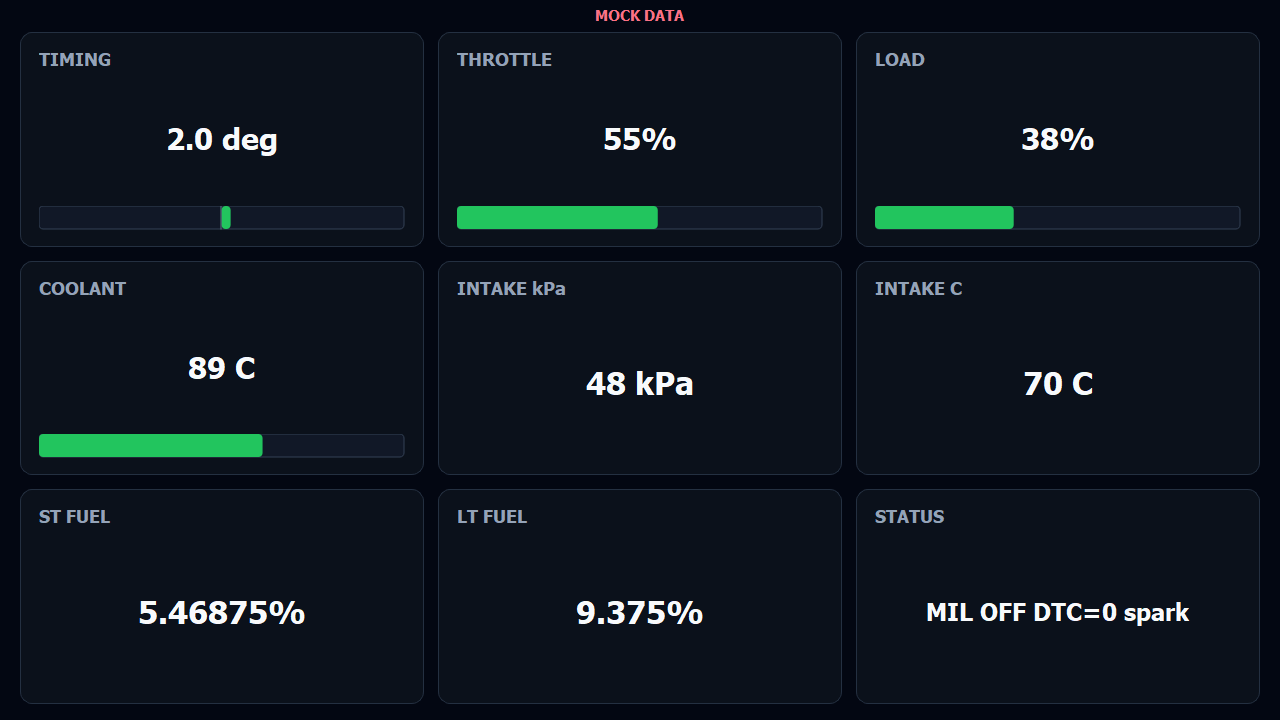
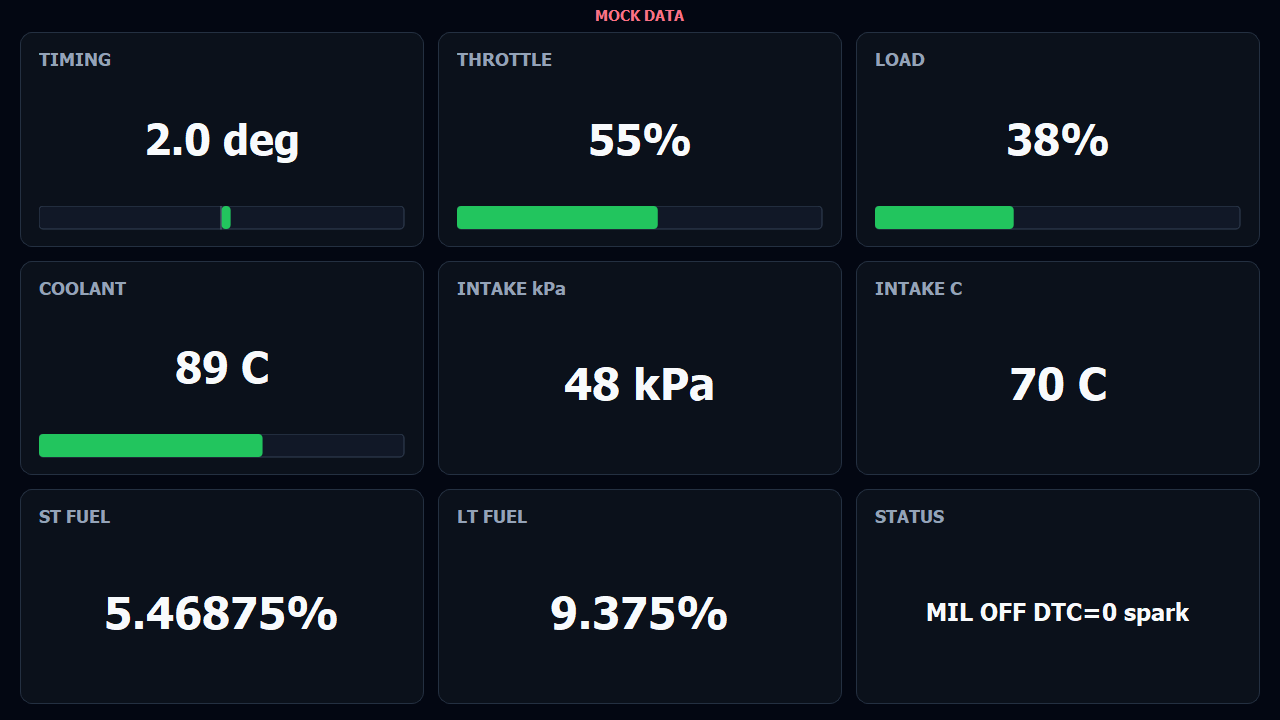
Enlarge dashboard metric values

diff --git a/scripts/obd_interface.py b/scripts/obd_interface.py
@@ -371,7 +371,7 @@ class GaugeMetric(QFrame):
         self.value_label = QLabel("-")
         self.value_label.setAlignment(Qt.AlignmentFlag.AlignCenter)
         self.value_label.setStyleSheet(
-            "font-size: %dpx; color: #f8fafc; font-weight: bold;" % scaled(30, scale)
+            "font-size: %dpx; color: #f8fafc; font-weight: bold;" % scaled(42, scale)
         )
         layout.addWidget(self.value_label, 1)
         self.bar = GaugeBar(name, scale)
@@ -420,7 +420,7 @@ class InfoMetric(QFrame):
         self.value_label = QLabel("-")
         self.value_label.setAlignment(Qt.AlignmentFlag.AlignCenter)
         self.value_label.setWordWrap(True)
-        value_size = 24 if name == "STATUS" else 32
+        value_size = 24 if name == "STATUS" else 44
         self.value_label.setStyleSheet(
             "font-size: %dpx; color: #f8fafc; font-weight: bold;" % scaled(value_size, scale)
         )

diff --git a/.trellis/tasks/07-25-dashboard-metric-cards/prd.md b/.trellis/tasks/07-25-dashboard-metric-cards/prd.md
@@ -20,6 +20,7 @@ Replace the narrow centered metric column with a full-screen block/card dashboar
 * Keep timing, throttle, engine load, and coolant gauge behavior.
 * Present non-gauge values as large, readable metric cards.
 * Center each metric value within its card instead of placing values in a corner.
+* Make numeric values substantially larger than their card titles.
 * Keep the dark dashboard theme with clearer card separation, spacing, and typography.
 * Keep the existing metric set, values, polling, mock behavior, and reverse-camera behavior unchanged.
 
@@ -29,6 +30,7 @@ Replace the narrow centered metric column with a full-screen block/card dashboar
 * [x] The card grid fills the useful 1280x720 dashboard area without clipping.
 * [x] All labels and mock values remain readable.
 * [x] Every metric value is visually centered within its card.
+* [x] Numeric values remain fully visible at the larger size.
 * [x] Gauge bars still reflect timing, throttle, load, and coolant values.
 * [x] `R` still switches to the mock backup camera and `N` returns to the card dashboard.
 * [x] Live OBD polling code is unchanged.
